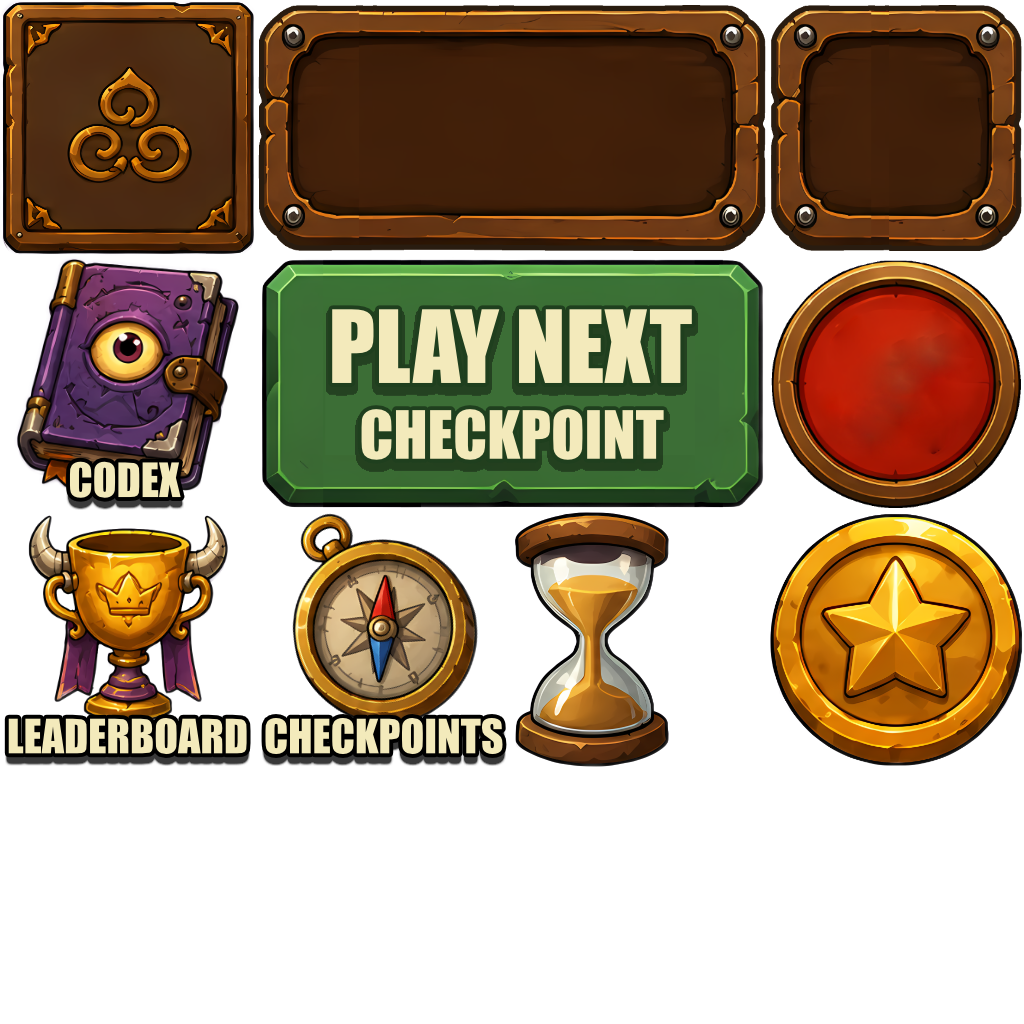
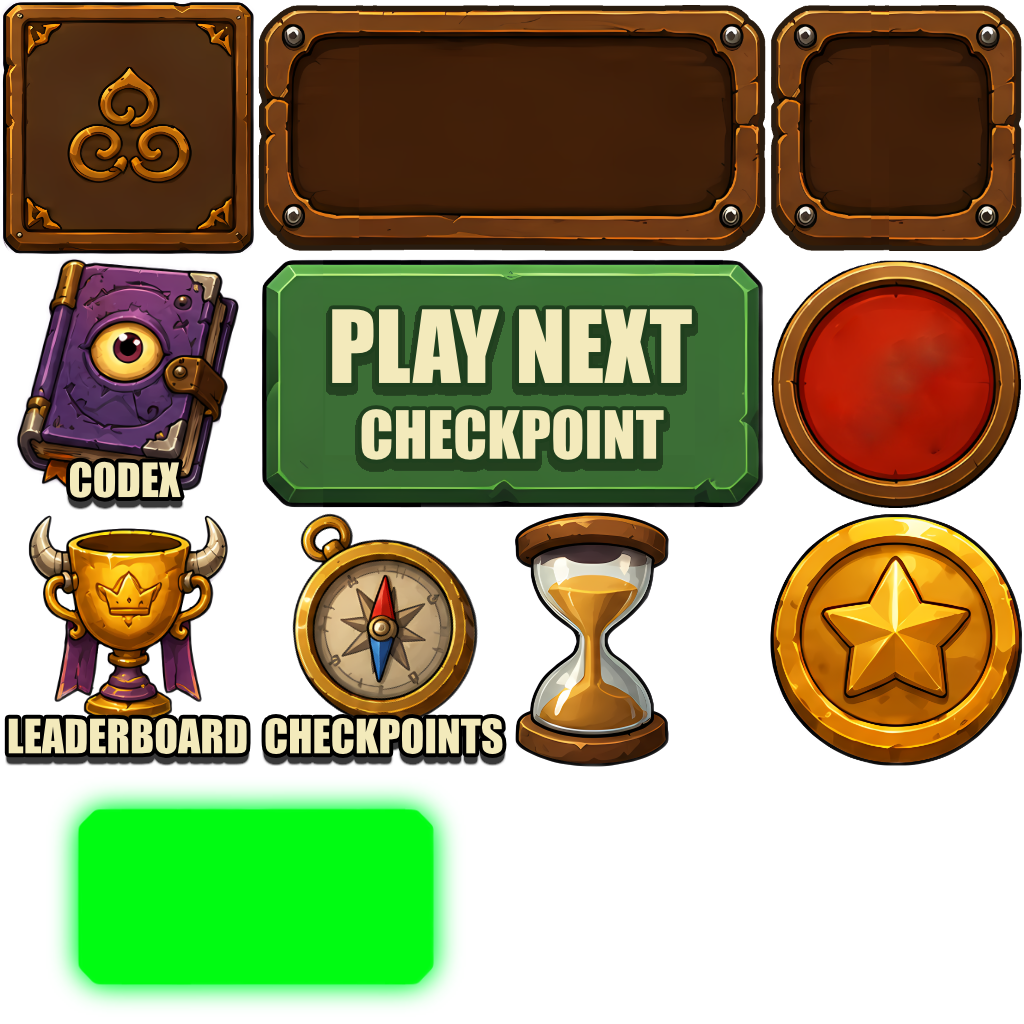
Improve spinner and play button

Changed region(s): [[0.0312, 0.75, 0.4688, 1.0]]

diff --git a/src/ui.tsx b/src/ui.tsx
@@ -335,6 +335,46 @@ function getPlayButtonWidthPx(): number {
   return isMobile() ? PLAY_BUTTON_WIDTH_PX * PLAY_BUTTON_MOBILE_SCALE : PLAY_BUTTON_WIDTH_PX
 }
 
+// Glow behind the Play button: a dedicated glow sprite (PLAY_GLOW_UVS, atlas_01.png A7-D8), the
+// same 4x2 atlas span as the button's own art (PLAY_BUTTON_UVS, C3-F4) - so the button's own real
+// size is a valid reference for scaling this up. 1.5x so it visibly sticks out around the button.
+// color stays white (no tint), only alpha pulses - same triangle-wave technique as other pulses.
+const PLAY_GLOW_SCALE = 1.4
+const PLAY_GLOW_MIN_OPACITY = 0.1
+const PLAY_GLOW_MAX_OPACITY = 1
+
+// Button+glow group scale (1x -> 1.2x -> 1x) and glow opacity (0.1 -> 1 -> 0.1) share the SAME
+// period below, so max scale always lands exactly on max opacity in time - they just use different
+// curve shapes (confirmed by ear: easeOutBack/easeInBack reads better for the scale pop, plain
+// cosine reads better for the opacity fade). UiTransform has no scale prop, so scale is faked by
+// animating the group's own box width/height - the outer anchor stays fixed at the button's base
+// position/size, and the pulse is applied to a nested wrapper centered on that same point (top/left
+// 50% + negative margin), so it grows/shrinks symmetrically in place rather than drifting.
+const PLAY_PULSE_PERIOD = 4 // 2s growing + 2s shrinking
+const PLAY_BUTTON_PULSE_MAX_SCALE = 1.2
+
+// Same easeOutBack/easeInBack pair as the toasts, one per leg (growing/shrinking).
+function getPlayScalePulse(): number {
+  const cyclePos = (elapsedTime % PLAY_PULSE_PERIOD) / PLAY_PULSE_PERIOD // 0..1 over the full period
+  if (cyclePos <= 0.5) {
+    return easeOutBack(cyclePos / 0.5) // 0..1 growing leg
+  }
+  return 1 - easeInBack((cyclePos - 0.5) / 0.5) // 0..1 shrinking leg, inverted to read as 1..0
+}
+
+// Ease-in-out sine (0..1..0) - smoothly accelerates/decelerates through both extremes, no overshoot.
+function getPlayOpacityPulse(): number {
+  return (1 - Math.cos((elapsedTime / PLAY_PULSE_PERIOD) * Math.PI * 2)) / 2
+}
+
+function getPlayButtonPulseScale(): number {
+  return 1 + getPlayScalePulse() * (PLAY_BUTTON_PULSE_MAX_SCALE - 1)
+}
+
+function getPlayGlowOpacity(): number {
+  return PLAY_GLOW_MIN_OPACITY + getPlayOpacityPulse() * (PLAY_GLOW_MAX_OPACITY - PLAY_GLOW_MIN_OPACITY)
+}
+
 function getPlayButtonHeightPx(): number {
   return isMobile() ? PLAY_BUTTON_HEIGHT_PX * PLAY_BUTTON_MOBILE_SCALE : PLAY_BUTTON_HEIGHT_PX
 }
@@ -528,7 +568,7 @@ function getUvsForQuadrant(index: number, grid: number): number[] {
 // Unverified in the Explorer: rotated (non-axis-aligned) UV corners are standard for textured
 // quads, but this codebase has only ever fed PBUiBackground axis-aligned rectangles until now.
 const SPINNER_BASE_UVS = getUvsForBlock(0, 0, 4, 4, ALPHAS_GRID)
-const SPINNER_DEGREES_PER_SECOND = 180
+const SPINNER_DEGREES_PER_SECOND = 90
 // Base unit for the spinner behind the Monster Collected toast's icon - box is 3x this, spinner
 // itself is rendered at 4.5x (bigger than its box, so it overflows symmetrically behind the icon).
 const SPINNER_SIZE_PX = 80
@@ -553,10 +593,12 @@ function getSpinnerUvs(): number[] {
   return rotateUvsAroundCenter(SPINNER_BASE_UVS, angle)
 }
 
-function renderSpinner(sizePx: number) {
+// heightPx defaults to widthPx (square/circular); pass a smaller value to squash it - the UV
+// rotation math doesn't care about the element's own aspect ratio, it just spins elliptically.
+function renderSpinner(widthPx: number, heightPx: number = widthPx) {
   return (
     <UiEntity
-      uiTransform={{ width: sizePx, height: sizePx, flexShrink: 0 }}
+      uiTransform={{ width: widthPx, height: heightPx, flexShrink: 0 }}
       uiBackground={{ textureMode: 'stretch', texture: { src: ALPHAS_IMAGE }, uvs: getSpinnerUvs() }}
     />
   )
@@ -571,6 +613,7 @@ const CODEX_BUTTON_UVS = getUvsForBlock(0, 2, 2, 2, BACK_ATLAS_GRID) // A3-B4
 const CHECKPOINTS_BUTTON_UVS = getUvsForBlock(2, 4, 2, 2, BACK_ATLAS_GRID) // C5-D6
 const SCORE_BACKGROUND_UVS = getUvsForBlock(2, 0, 4, 2, BACK_ATLAS_GRID) // C1-F2
 const PLAY_BUTTON_UVS = getUvsForBlock(2, 2, 4, 2, BACK_ATLAS_GRID) // C3-F4
+const PLAY_GLOW_UVS = getUvsForBlock(0, 6, 4, 2, BACK_ATLAS_GRID) // A7-D8 - same 4x2 span as the button
 const SCORE_ICON_UVS = getUvsForBlock(6, 4, 2, 2, BACK_ATLAS_GRID) // G5-H6
 const TIMER_ICON_UVS = getUvsForBlock(4, 4, 2, 2, BACK_ATLAS_GRID) // E5-F6
 const CLOSE_BUTTON_UVS = getUvsForBlock(4, 1, 1, 1, BACK_ATLAS_GRID) // atlas_02.png E2
@@ -1499,24 +1542,72 @@ const MemoryMatchUi = () => (
           borderColor: DEBUG_BORDER_RED
         }}
       >
-        {screen === 'hidden' && (
-          <UiEntity
-            uiTransform={{
-              width: getPlayButtonWidthPx(),
-              height: getPlayButtonHeightPx(),
-              flexShrink: 0,
-              positionType: 'absolute',
-              // Pinned to the bottom of the body, centered horizontally (left computed in raw px
-              // from the button's own size - see getPlayButtonLeftPx()).
-              position: { bottom: getPlayButtonBottomPercent(), left: getPlayButtonLeftPx() },
-              flexDirection: 'column',
-              alignItems: 'center',
-              justifyContent: 'flex-end'
-            }}
-            uiBackground={{ textureMode: 'stretch', texture: { src: BACK_IMAGE }, uvs: PLAY_BUTTON_UVS }}
-            onMouseDown={() => startCheckpoint(highestUnlockedCheckpoint)}
-          />
-        )}
+        {screen === 'hidden' &&
+          (() => {
+            const pulseScale = getPlayButtonPulseScale()
+            const pulseWidth = getPlayButtonWidthPx() * pulseScale
+            const pulseHeight = getPlayButtonHeightPx() * pulseScale
+            return (
+              <UiEntity
+                uiTransform={{
+                  positionType: 'absolute',
+                  // Pinned to the bottom of the body, centered horizontally (left computed in raw
+                  // px from the button's own size - see getPlayButtonLeftPx()). Fixed at the
+                  // button's base position/size - just an anchor point for the pulsing group below.
+                  position: { bottom: getPlayButtonBottomPercent(), left: getPlayButtonLeftPx() },
+                  width: getPlayButtonWidthPx(),
+                  height: getPlayButtonHeightPx()
+                }}
+              >
+                {/* Pulsing group (button + glow together): centered on the anchor's own center via
+                top/left 50% + negative margin, so it grows/shrinks in place. */}
+                <UiEntity
+                  uiTransform={{
+                    positionType: 'absolute',
+                    position: { top: '50%', left: '50%' },
+                    margin: { top: -pulseHeight / 2, left: -pulseWidth / 2 },
+                    width: pulseWidth,
+                    height: pulseHeight,
+                    alignItems: 'center',
+                    justifyContent: 'center'
+                  }}
+                >
+                  {/* Glow: dedicated sprite (PLAY_GLOW_UVS), 1.4x the button's size, pulsing opacity. */}
+                  <UiEntity
+                    uiTransform={{
+                      positionType: 'absolute',
+                      position: { top: 0, left: 0 },
+                      margin: {
+                        top: -(pulseHeight * (PLAY_GLOW_SCALE - 1)) / 2,
+                        left: -(pulseWidth * (PLAY_GLOW_SCALE - 1)) / 2
+                      },
+                      width: pulseWidth * PLAY_GLOW_SCALE,
+                      height: pulseHeight * PLAY_GLOW_SCALE
+                    }}
+                    uiBackground={{
+                      textureMode: 'stretch',
+                      texture: { src: BACK_IMAGE },
+                      uvs: PLAY_GLOW_UVS,
+                      color: Color4.create(1, 1, 1, getPlayGlowOpacity())
+                    }}
+                  />
+                  <UiEntity
+                    uiTransform={{
+                      positionType: 'absolute',
+                      position: { top: 0, left: 0 },
+                      width: '100%',
+                      height: '100%',
+                      flexDirection: 'column',
+                      alignItems: 'center',
+                      justifyContent: 'flex-end'
+                    }}
+                    uiBackground={{ textureMode: 'stretch', texture: { src: BACK_IMAGE }, uvs: PLAY_BUTTON_UVS }}
+                    onMouseDown={() => startCheckpoint(highestUnlockedCheckpoint)}
+                  />
+                </UiEntity>
+              </UiEntity>
+            )
+          })()}
 
         {/* PROVISIONAL: board 1/2/3 progress, see showingBoardProgress(). */}
         {showingBoardProgress() && (
@@ -2206,13 +2297,15 @@ const MemoryMatchUi = () => (
           )}
           {toastPhase === 'findMonster' && renderMonsterIcon(wonMonsterQuadrant, 64)}
           {toastPhase === 'findMonster' && (
-            <Label
-              value={`Collect the monster.\nChances: ${getPrizeChaseChancesRemaining()}/${PRIZE_CHASE_MAX_ATTEMPTS}`}
-              fontSize={20}
-              color={Color4.White()}
-              textAlign="middle-left"
-              uiTransform={{ margin: { left: 16 } }}
-            />
+            <UiEntity uiTransform={{ flexDirection: 'column', margin: { left: 16 } }}>
+              <Label value="Mission:" fontSize={28} color={Color4.White()} textAlign="middle-left" />
+              <Label
+                value={`Collect the monster.\nChances: ${getPrizeChaseChancesRemaining()}/${PRIZE_CHASE_MAX_ATTEMPTS}`}
+                fontSize={20}
+                color={Color4.White()}
+                textAlign="middle-left"
+              />
+            </UiEntity>
           )}
           {toastPhase === 'monsterCollected' && (
             <Label value="Monster Collected!" fontSize={28} color={Color4.White()} textAlign="middle-center" />
